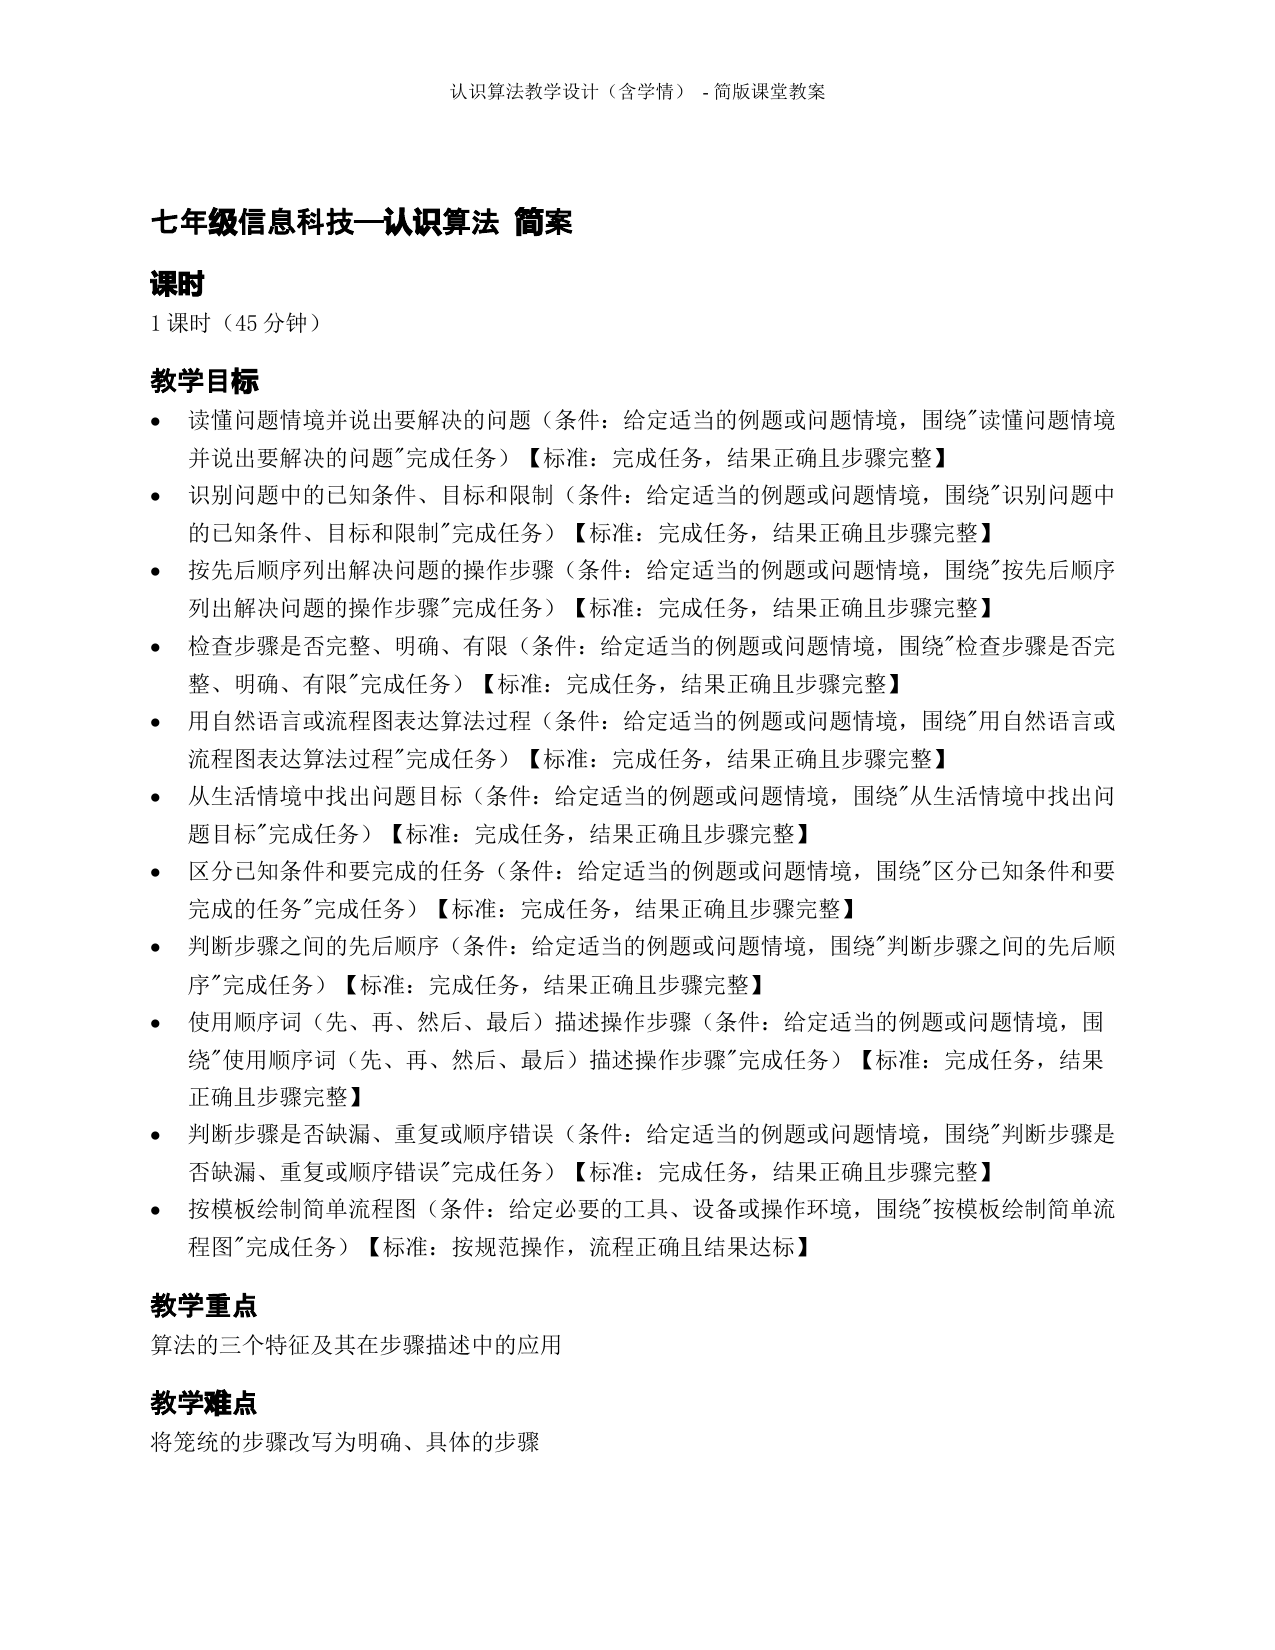
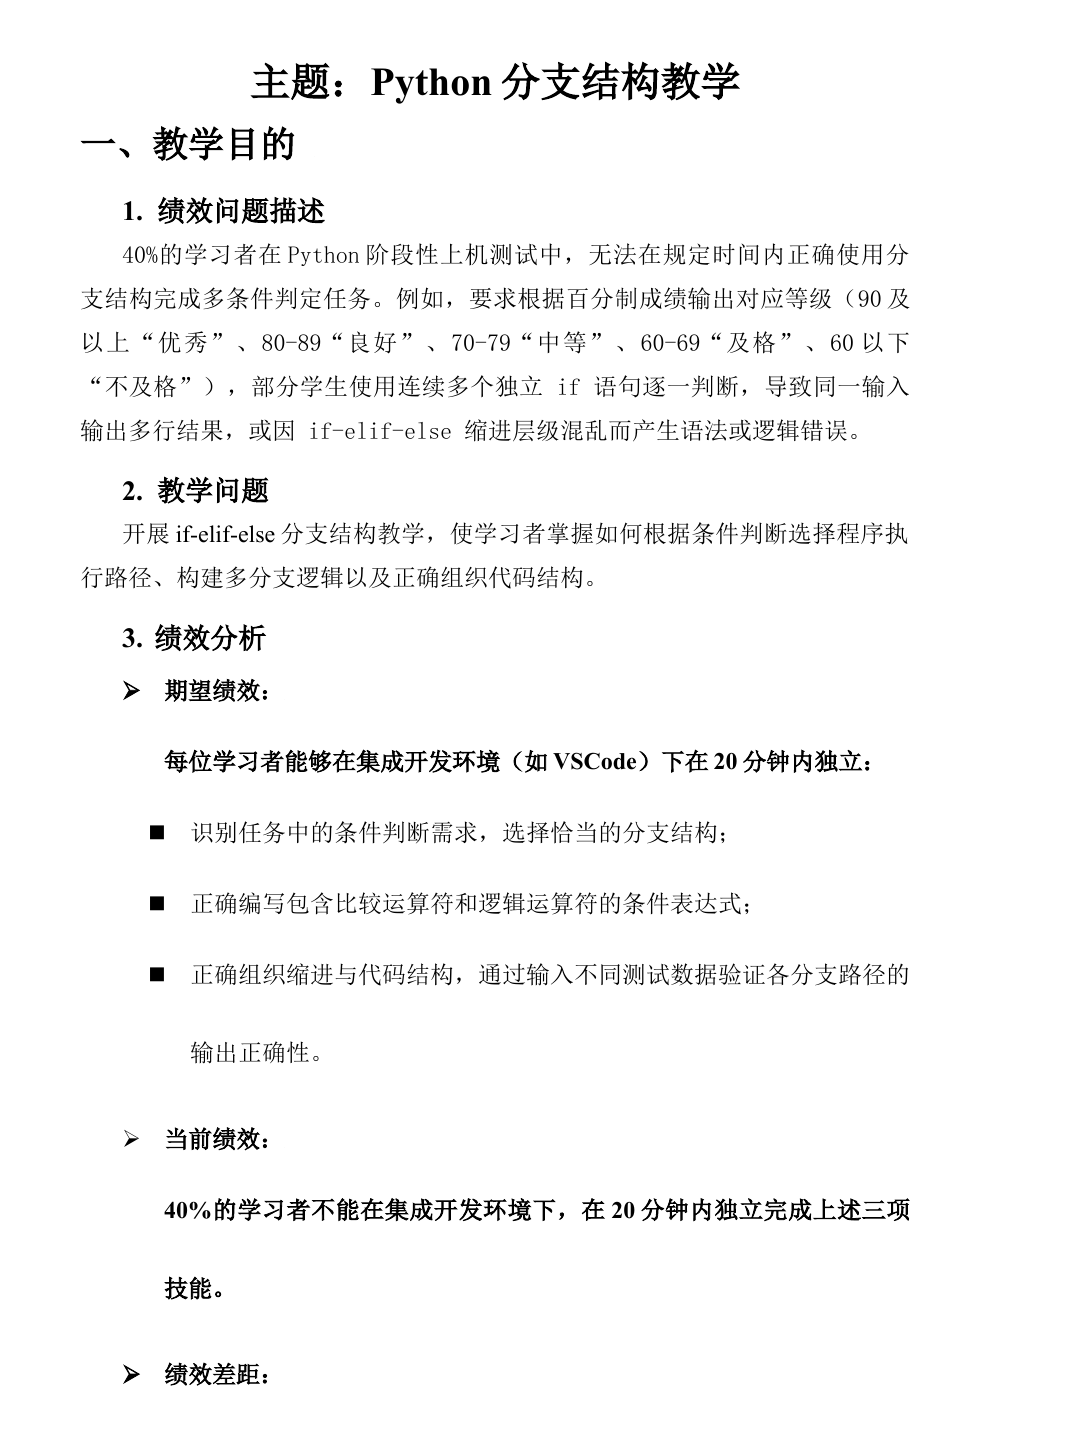
docs: refresh README samples and scope CI triggers

diff --git a/README.md b/README.md
@@ -45,18 +45,18 @@ DC Designer 将这些决策放回同一个教学系统中处理。
 
 ## Sample Artifacts
 
-下面的截面来自仓库内的匿名示例项目，用来展示输出形态，不代表教师私有资料或真实学生效果数据。
+下面的截图取自《Python 分支结构教学系统设计报告》，用于展示插件生成的交付物形态；报告中的课堂情境与评价数据仅作示例，不代表真实学生效果。
 
 <table>
   <tr>
-    <td align="center"><img src="docs/assets/sample-report-page.png" alt="Sample Word report page" width="280"></td>
-    <td align="center"><img src="docs/assets/sample-skill-map.png" alt="Sample skill hierarchy map" width="420"></td>
-    <td align="center"><img src="docs/assets/sample-program-flow.png" alt="Sample programming control flow" width="420"></td>
+    <td align="center"><img src="docs/assets/sample-report-page.png" alt="Python branch structure teaching system design report" width="280"></td>
+    <td align="center"><img src="docs/assets/sample-skill-map.png" alt="Skill goals and subordinate skills overview" width="420"></td>
+    <td align="center"><img src="docs/assets/sample-skill-hierarchy.png" alt="Subordinate skills and entry skills map" width="420"></td>
   </tr>
   <tr>
-    <td align="center"><sub>Word 教学系统设计报告</sub></td>
+    <td align="center"><sub>Python 分支结构教学系统设计报告</sub></td>
+    <td align="center"><sub>技能目标与从属技能概览</sub></td>
     <td align="center"><sub>从属技能与入门技能图</sub></td>
-    <td align="center"><sub>程序控制流程图</sub></td>
   </tr>
 </table>
 
